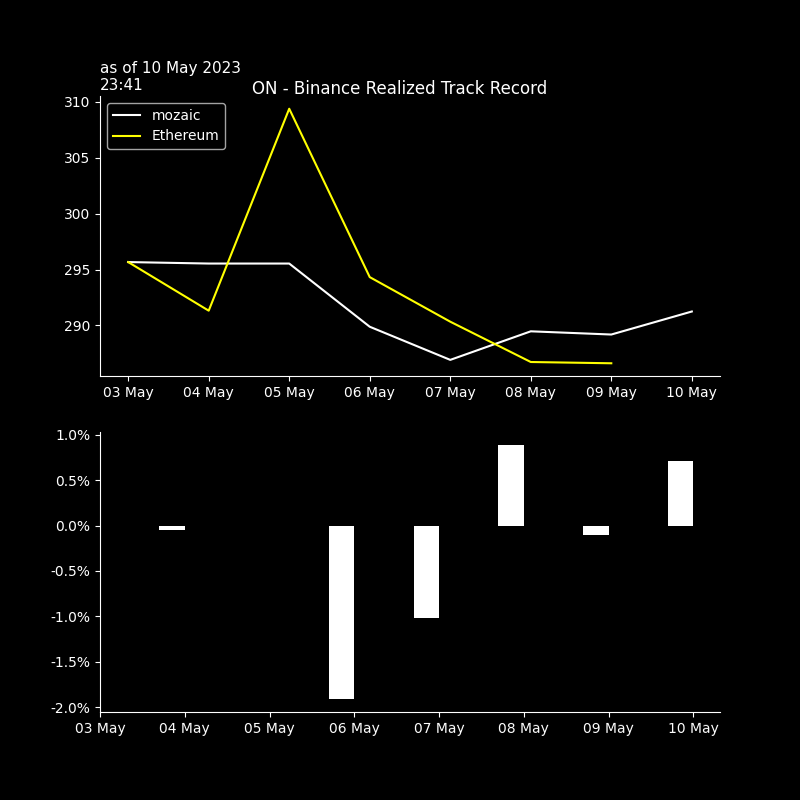
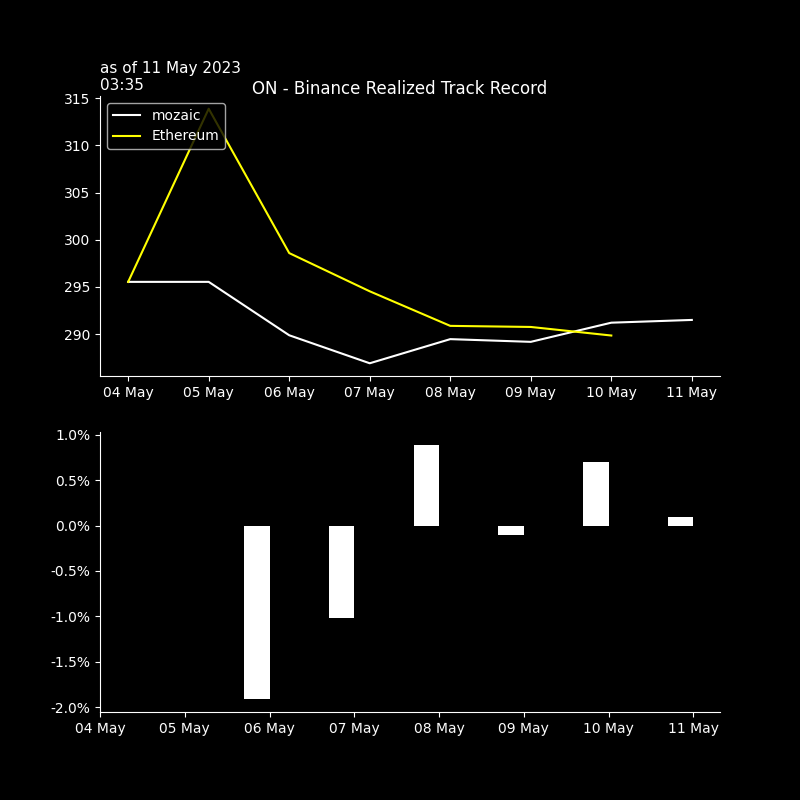
seb_commit

diff --git a/crypto/graphs/bt_trades_book.htmltrade_trades_book.html b/crypto/graphs/bt_trades_book.htmltrade_trades_book.html
@@ -37,55 +37,38 @@
   </thead>
   <tbody>
     <tr>
-      <th>XRPUSDT</th>
-      <td>0.4289</td>
-      <td>2023-05-10 22:33:43</td>
-      <td>-425.800</td>
-      <td>$-182.6</td>
-      <td>$0.04</td>
-      <td>2.0</td>
-      <td>2.0</td>
-      <td>0.42835</td>
-      <td>2023-05-10 23:31</td>
-      <td>0.2</td>
-      <td>13.0</td>
-      <td>.4289</td>
-      <td>0.0</td>
-      <td>0.0</td>
-    </tr>
-    <tr>
       <th>BTCUSDT</th>
-      <td>27529.9000</td>
-      <td>2023-05-10 22:33:42</td>
-      <td>-0.006</td>
-      <td>$-165.2</td>
-      <td>$0.03</td>
+      <td>27526.8000</td>
+      <td>2023-05-11 02:35:18</td>
+      <td>0.002</td>
+      <td>$55.1</td>
+      <td>$0.01</td>
       <td>2.0</td>
-      <td>0.4</td>
-      <td>27518.05000</td>
-      <td>2023-05-10 23:31</td>
-      <td>0.1</td>
-      <td>4.0</td>
-      <td>27533.1</td>
+      <td>0.0</td>
+      <td>27517.75000</td>
+      <td>2023-05-11 03:32</td>
       <td>-0.0</td>
-      <td>-1.0</td>
+      <td>-4.0</td>
+      <td>27515.1</td>
+      <td>-0.0</td>
+      <td>-4.0</td>
     </tr>
     <tr>
-      <th>ETHUSDT</th>
-      <td>1835.0600</td>
-      <td>2023-05-10 22:33:42</td>
-      <td>-0.079</td>
-      <td>$-145.0</td>
-      <td>$0.03</td>
+      <th>XRPUSDT</th>
+      <td>0.4266</td>
+      <td>2023-05-11 02:35:34</td>
+      <td>168.800</td>
+      <td>$72.0</td>
+      <td>$0.01</td>
       <td>2.0</td>
       <td>0.2</td>
-      <td>1834.84500</td>
-      <td>2023-05-10 23:31</td>
+      <td>0.42665</td>
+      <td>2023-05-11 03:32</td>
       <td>0.0</td>
       <td>1.0</td>
-      <td>1835.13</td>
+      <td>.4265</td>
       <td>-0.0</td>
-      <td>-1.0</td>
+      <td>-3.0</td>
     </tr>
   </tbody>
 </table>

diff --git a/crypto/graphs/bt_trades_recap.htmltrade_trades_recap.html b/crypto/graphs/bt_trades_recap.htmltrade_trades_recap.html
@@ -9,32 +9,32 @@
   <tbody>
     <tr>
       <th>as of</th>
-      <td>10May 22:33&gt;&gt;22:33</td>
-      <td>#trades: 3</td>
+      <td>11May 02:35&gt;&gt;02:35</td>
+      <td>#trades: 2</td>
     </tr>
     <tr>
       <th>trade net</th>
-      <td>-493.0</td>
-      <td>-169.3%</td>
+      <td>+127.0</td>
+      <td>+43.6%</td>
     </tr>
     <tr>
       <th>trade gross</th>
-      <td>+493.0</td>
-      <td>+169.3%</td>
+      <td>+127.0</td>
+      <td>+43.6%</td>
     </tr>
     <tr>
       <th>BUY</th>
+      <td>+127.0</td>
+      <td>+43.6%</td>
+    </tr>
+    <tr>
+      <th>SELL</th>
       <td>+0.0</td>
       <td>+0.0%</td>
     </tr>
     <tr>
-      <th>SELL</th>
-      <td>-493.0</td>
-      <td>-169.3%</td>
-    </tr>
-    <tr>
       <th>fees</th>
-      <td>$ 0.099</td>
+      <td>$ 0.025</td>
       <td>2.0bp</td>
     </tr>
   </tbody>

diff --git a/crypto/graphs/bt_trades_pnlD_recap.htmltrade_trades_pnlD_recap.html b/crypto/graphs/bt_trades_pnlD_recap.htmltrade_trades_pnlD_recap.html
@@ -1,7 +1,7 @@
 <table border="1" class="dataframe">
   <thead>
     <tr style="text-align: right;">
-      <th>10 May 23:33</th>
+      <th>11 May 03:35</th>
       <th>realizedPnl</th>
       <th>PnLvsArrival</th>
       <th>PnLvsLast</th>
@@ -10,20 +10,20 @@
   <tbody>
     <tr>
       <th>in$</th>
-      <td>2.6</td>
-      <td>0.3</td>
+      <td>0.2</td>
+      <td>-0.0</td>
       <td>-0.0</td>
     </tr>
     <tr>
-      <th>in bp 492 traded</th>
-      <td>53 bp</td>
-      <td>6 bp</td>
+      <th>in bp 127 traded</th>
+      <td>15 bp</td>
       <td>-1 bp</td>
+      <td>-3 bp</td>
     </tr>
     <tr>
       <th>in bp 291 AUMs</th>
-      <td>90 bp</td>
-      <td>11 bp</td>
+      <td>7 bp</td>
+      <td>-0 bp</td>
       <td>-1 bp</td>
     </tr>
   </tbody>
